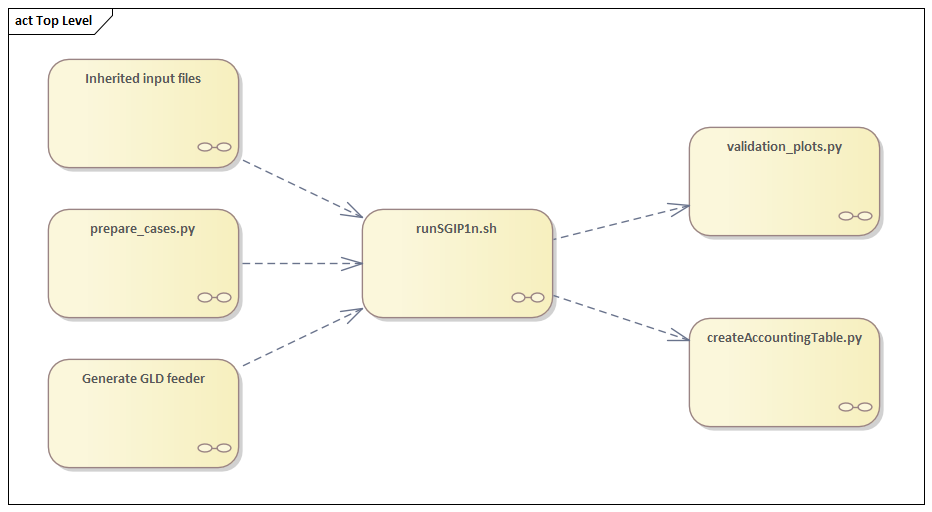
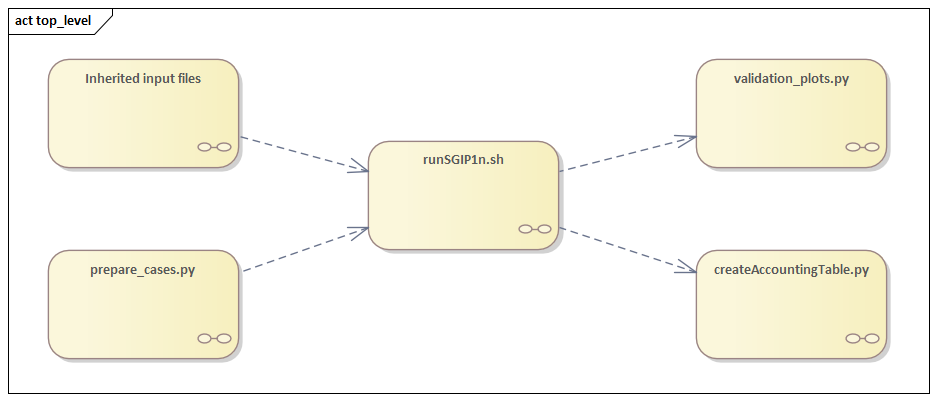
Update diagrams to reflect SGIP1n.glm is an inherited file

diff --git a/doc/examples/SGIP1_Example.rst b/doc/examples/SGIP1_Example.rst
@@ -479,10 +479,6 @@ Figure :numref:`fig_SA_prepare_cases` shows the process by which the co-simulati
 	Co-simulation files generated by "prepare_cases.py" in preparation of performing the analysis proper.
 
 
-Generate GLD feeder
-,,,,,,,,,,,,,,,,,,,
-**TODO: figure out where this script fits into the execution flow of the analysis.**
-
 
 runSGIPn.sh
 ,,,,,,,,,,,,
